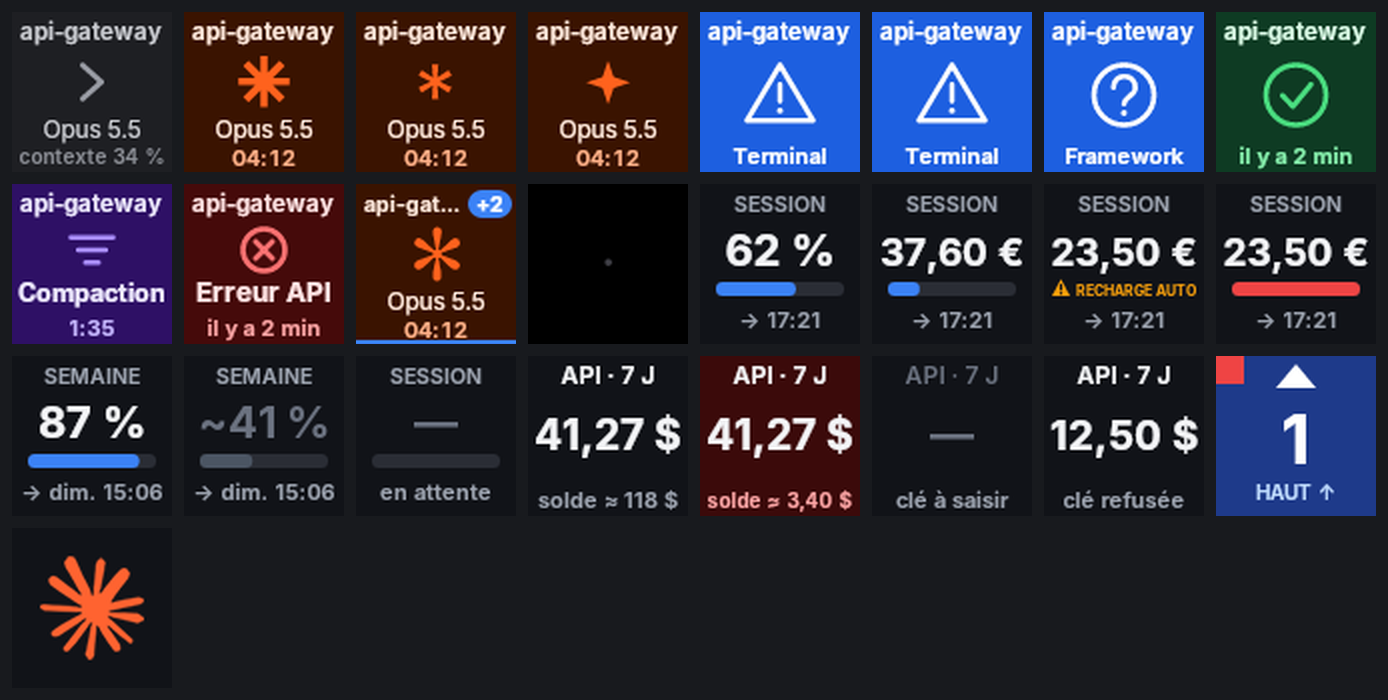
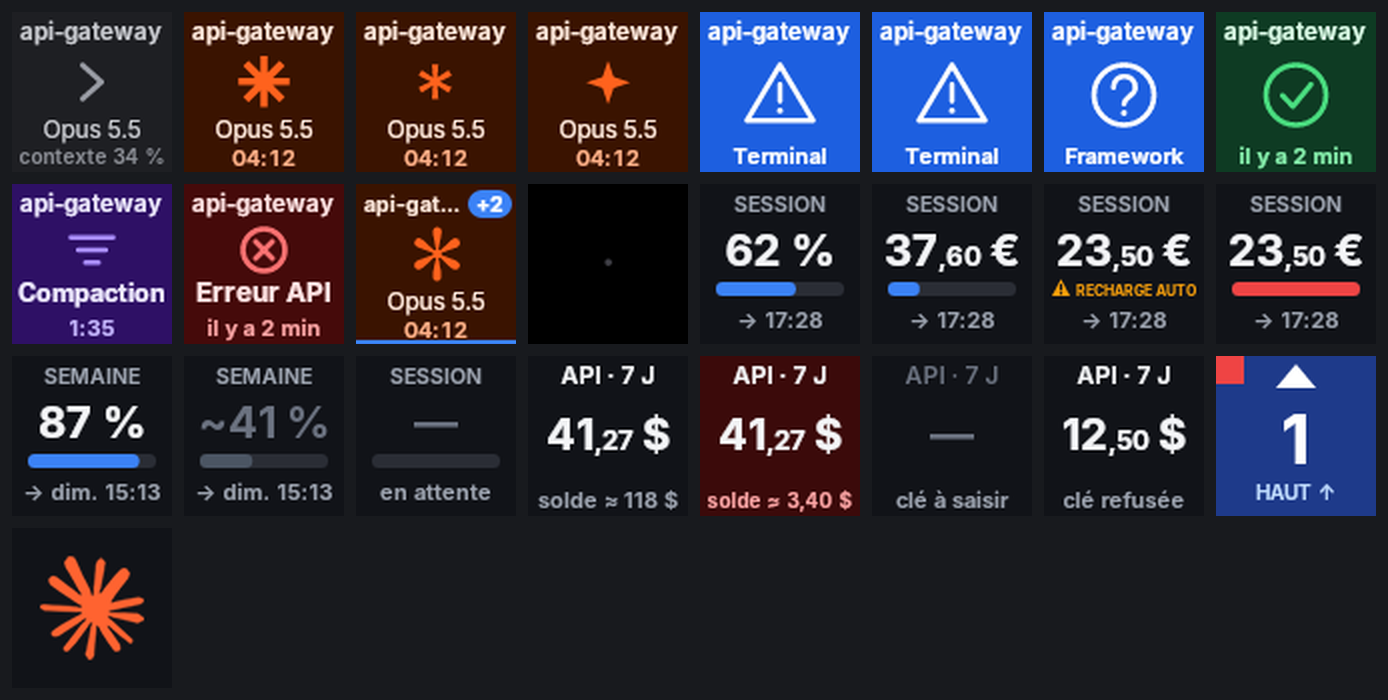
Montants : virgule et centimes plus petits que l'unité et la devise (v0.5.2)
Solde de crédits (tuile SESSION) et dépense API : partie entière et
devise à la taille principale, « ,60 » à 60 %, même ligne de base,
centré et réduit au besoin pour tenir dans la largeur.

Claude-Session: https://claude.ai/code/session_01Fx8ktu9DfaPpGyN7FCRNbi

diff --git a/src/ClaudeDeck.Core/Rendering/KeyRenderer.cs b/src/ClaudeDeck.Core/Rendering/KeyRenderer.cs
@@ -99,7 +99,8 @@ public sealed class KeyRenderer : IDisposable
         }
         else if (v.Main is { } m)
         {
-            DrawText(c, m, _bold, 22f, 12f, 3f, 77f, 47f, v.Foreground, SKTextAlign.Center);
+            if (v.MainMoney && SplitMoney(m) is { } parts) DrawMoney(c, parts, 22f, 12f, 47f, v.Foreground);
+            else DrawText(c, m, _bold, 22f, 12f, 3f, 77f, 47f, v.Foreground, SKTextAlign.Center);
         }
 
         // Ligne du bas (chrono) au plus près du bord inférieur.
@@ -113,7 +114,11 @@ public sealed class KeyRenderer : IDisposable
     private void DrawGaugeLayout(SKCanvas c, KeyView v)
     {
         if (v.Title is { } t) DrawText(c, t, _semi, 10.5f, 8f, 3f, 77f, 14f, v.Muted, SKTextAlign.Center);
-        if (v.Main is { } m) DrawText(c, m, _bold, 22f, 13f, 3f, 77f, 41f, v.Foreground, SKTextAlign.Center);
+        if (v.Main is { } m)
+        {
+            if (v.MainMoney && SplitMoney(m) is { } parts) DrawMoney(c, parts, 22f, 13f, 41f, v.Foreground);
+            else DrawText(c, m, _bold, 22f, 13f, 3f, 77f, 41f, v.Foreground, SKTextAlign.Center);
+        }
 
         if (v.BarText is { } warning)
         {
@@ -189,6 +194,41 @@ public sealed class KeyRenderer : IDisposable
         {
             handle.Free();
         }
+    }
+
+    /// <summary>Découpe « 37,60 € » en (« 37 », « ,60 », « € ») ; null si le texte n'a pas de centimes.</summary>
+    internal static (string Units, string Cents, string Currency)? SplitMoney(string text)
+    {
+        var m = System.Text.RegularExpressions.Regex.Match(text, @"^(?<u>.*?\d)(?<c>,\d+)(?:[\s  ]+(?<cur>\S+))?$");
+        if (!m.Success) return null;
+        return (m.Groups["u"].Value, m.Groups["c"].Value, m.Groups["cur"].Success ? m.Groups["cur"].Value : "");
+    }
+
+    /// <summary>
+    /// Montant typographié : unités et devise à la taille principale, virgule et centimes à 60 %, sur la même ligne de
+    /// base, le tout centré et réduit si nécessaire pour tenir dans la largeur.
+    /// </summary>
+    private void DrawMoney(SKCanvas c, (string Units, string Cents, string Currency) parts, float size, float minSize, float baseline, Rgb color)
+    {
+        const float maxWidth = 74f, centsRatio = 0.6f;
+        using var big = new SKFont(_bold, size) { Subpixel = true, Edging = SKFontEdging.Antialias };
+        using var small = new SKFont(_bold, size * centsRatio) { Subpixel = true, Edging = SKFontEdging.Antialias };
+        float Gap() => big.Size * 0.18f;
+        float Width() => big.MeasureText(parts.Units) + small.MeasureText(parts.Cents) +
+                         (parts.Currency.Length > 0 ? Gap() + big.MeasureText(parts.Currency) : 0);
+        while (big.Size > minSize && Width() > maxWidth)
+        {
+            big.Size -= 0.5f;
+            small.Size = big.Size * centsRatio;
+        }
+
+        using var paint = Fill(color);
+        var x = 40f - Width() / 2f;
+        c.DrawText(parts.Units, x, baseline, SKTextAlign.Left, big, paint);
+        x += big.MeasureText(parts.Units);
+        c.DrawText(parts.Cents, x, baseline, SKTextAlign.Left, small, paint);
+        x += small.MeasureText(parts.Cents);
+        if (parts.Currency.Length > 0) c.DrawText(parts.Currency, x + Gap(), baseline, SKTextAlign.Left, big, paint);
     }
 
     /// <summary>« /!\ TEXTE » à la place de la barre d'une jauge : triangle d'avertissement puis texte, centrés.</summary>

diff --git a/tests/ClaudeDeck.Tests/RenderingTests.cs b/tests/ClaudeDeck.Tests/RenderingTests.cs
@@ -438,3 +438,35 @@ public class ChronoTests
         Assert.InRange(Extent(r.Render(b.Session(S(71), now, 0))) - Extent(r.Render(b.Session(S(488), now, 0))), -2, 2);
     }
 }
+
+public class MoneyTypographyTests
+{
+    [Theory]
+    [InlineData("37,60 €", "37", ",60", "€")]
+    [InlineData("~23,50 €", "~23", ",50", "€")]
+    [InlineData("41,27 $", "41", ",27", "$")]
+    [InlineData("12,00 CHF", "12", ",00", "CHF")]
+    public void Splits_units_cents_currency(string text, string units, string cents, string currency)
+    {
+        var parts = KeyRenderer.SplitMoney(text.Replace(' ', ' '));
+        Assert.NotNull(parts);
+        Assert.Equal((units, cents, currency), parts!.Value);
+    }
+
+    [Theory]
+    [InlineData("128 $")]
+    [InlineData("62 %")]
+    [InlineData("—")]
+    public void Texts_without_cents_are_left_alone(string text) => Assert.Null(KeyRenderer.SplitMoney(text));
+
+    [Fact]
+    public void Money_flag_is_set_on_credit_balance()
+    {
+        var now = new DateTimeOffset(2026, 11, 13, 10, 0, 0, TimeSpan.Zero);
+        var v = new KeyViewBuilder(TimeZoneInfo.Utc).SessionWindow(new RateWindow(100, now.AddHours(1), now, "x"),
+            new UsageCredits(true, 50m, 12.4m, "EUR", now), now);
+        Assert.True(v.MainMoney);
+        using var r = new KeyRenderer();
+        Assert.NotEqual(r.Render(v).Hash, r.Render(v with { MainMoney = false }).Hash);
+    }
+}

diff --git a/src/ClaudeDeck.Core/Rendering/KeyViewBuilder.cs b/src/ClaudeDeck.Core/Rendering/KeyViewBuilder.cs
@@ -228,6 +228,7 @@ public sealed class KeyViewBuilder
         var view = plain with
         {
             Main = (stale ? "~" : "") + Money(amount, c.Currency),
+            MainMoney = true,
             Sub = plain.Sub, // « → 18:43 » : retour au forfait
         };
 
@@ -297,6 +298,7 @@ public sealed class KeyViewBuilder
         return view with
         {
             Main = Money(api.Spend7dUsd.Value),
+            MainMoney = true,
             Sub = sub,
             Background = low ? C.LowBalanceBg : C.GaugeBg,
             Foreground = stale ? C.StaleFg : C.GaugeFg,

diff --git a/src/ClaudeDeck.Core/Rendering/KeyView.cs b/src/ClaudeDeck.Core/Rendering/KeyView.cs
@@ -45,6 +45,9 @@ public sealed record KeyView
     /// <summary>Ligne du bas en chiffres à largeur fixe (chrono : pas de décalage d'une seconde à l'autre).</summary>
     public bool SubMono { get; init; }
 
+    /// <summary>Le texte principal est un montant : virgule et centimes dessinés plus petits que l'unité et la devise.</summary>
+    public bool MainMoney { get; init; }
+
     /// <summary>Ligne du bas, discrète.</summary>
     public string? Sub { get; init; }
 
